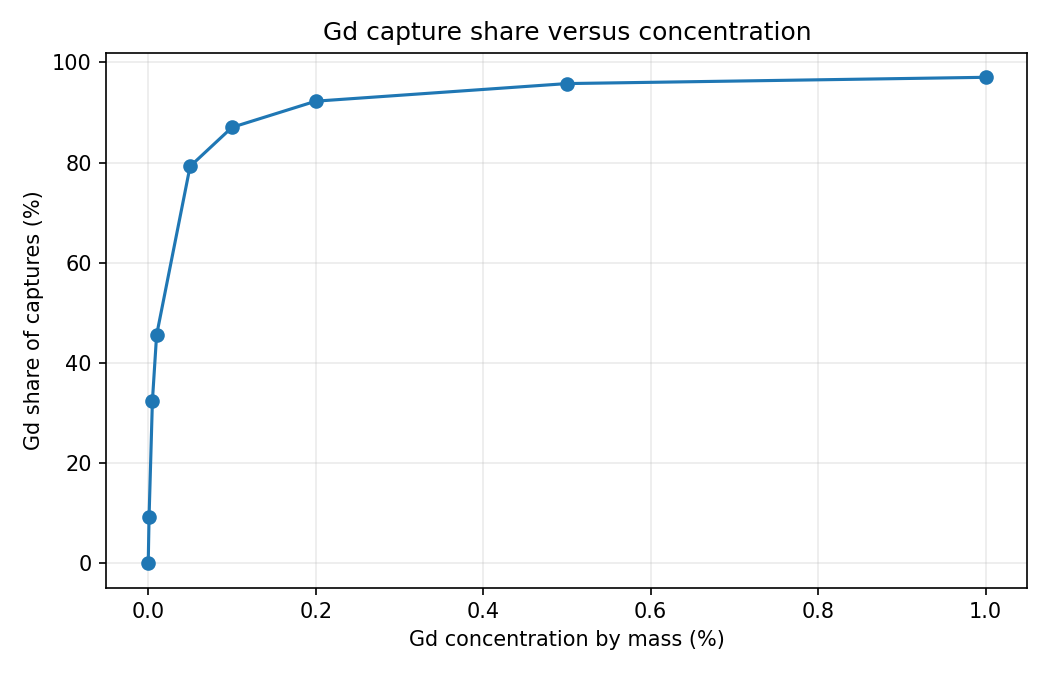
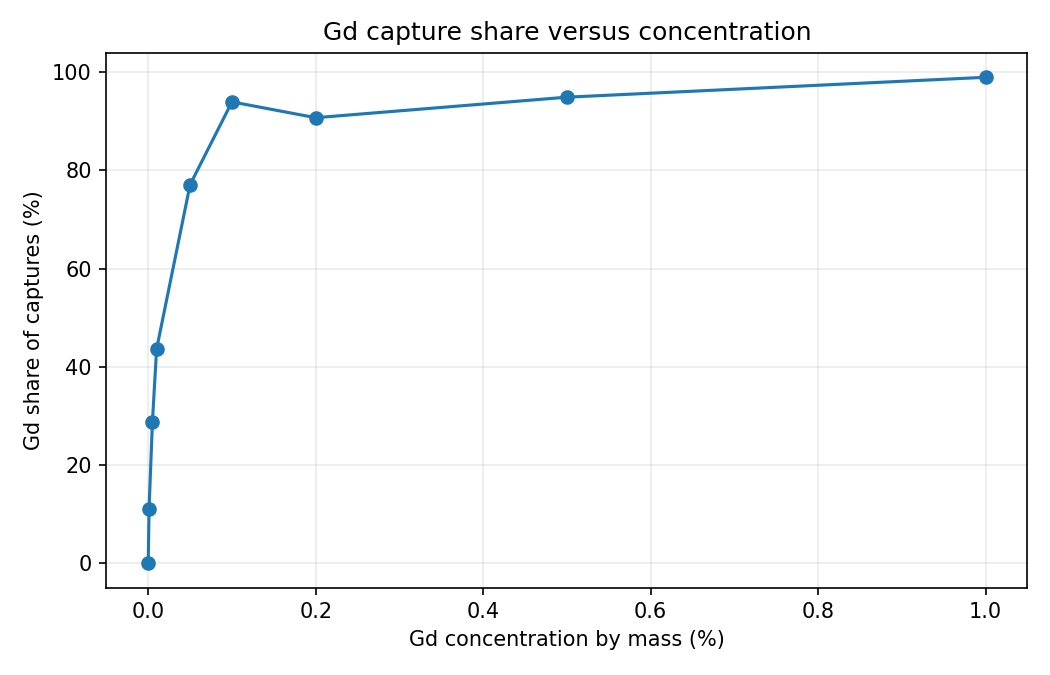
readme improved for better readibiltiy and figure organization

diff --git a/README.md b/README.md
@@ -72,6 +72,42 @@ occur inside the 30 cm absorber. Together, these distributions help check
 whether Gd changes only the capture isotope or also the spatial and temporal
 capture signatures.
 
+The extended scan also produces:
+
+- `escape_probability_vs_radius.png`: the fraction of primary neutrons that
+  leave absorbers of different radii without being captured
+- `capture_isotope_breakdown.png`: capture counts by residual nucleus
+- `capture_length_by_isotope.png`: mean capture path length grouped by
+  residual nucleus
+- `detector_response.png`: deposited-energy threshold counts and capture-gamma
+  response for the 2.5 MeV comparison
+- `energy_containment.png`: event-level distribution of deposited energy
+  divided by capture-gamma energy
+- `energy_containment_vs_radius.png`: mean containment proxy versus absorber
+  radius
+
+These outputs distinguish the Gd share *among captures* from the probability
+that an incident neutron is captured at all, identify the isotopes responsible
+for the capture signal, compare path lengths by isotope, and connect the
+nuclear capture process to a detector energy threshold.
+
+### Energy containment
+
+For each capture event, the scan records the total energy deposited in the
+absorber and the capture-step gamma energy. It plots the containment proxy
+
+```text
+deposited energy / capture-gamma energy
+```
+
+A value near 1 means that the deposited energy is comparable to the energy
+released in capture; lower values indicate more energy escaped the absorber.
+The ratio can exceed 1 because the deposited energy also includes energy from
+the incident neutron and other event products, so this is a capture-event
+response proxy rather than a pure gamma-only containment fraction. The
+radius-scan plot shows how this response changes as the detector becomes
+larger.
+
 ## Requirements
 
 - **Geant4** >= 10.7 (developed against 11.x), built with `ui_all vis_all`
